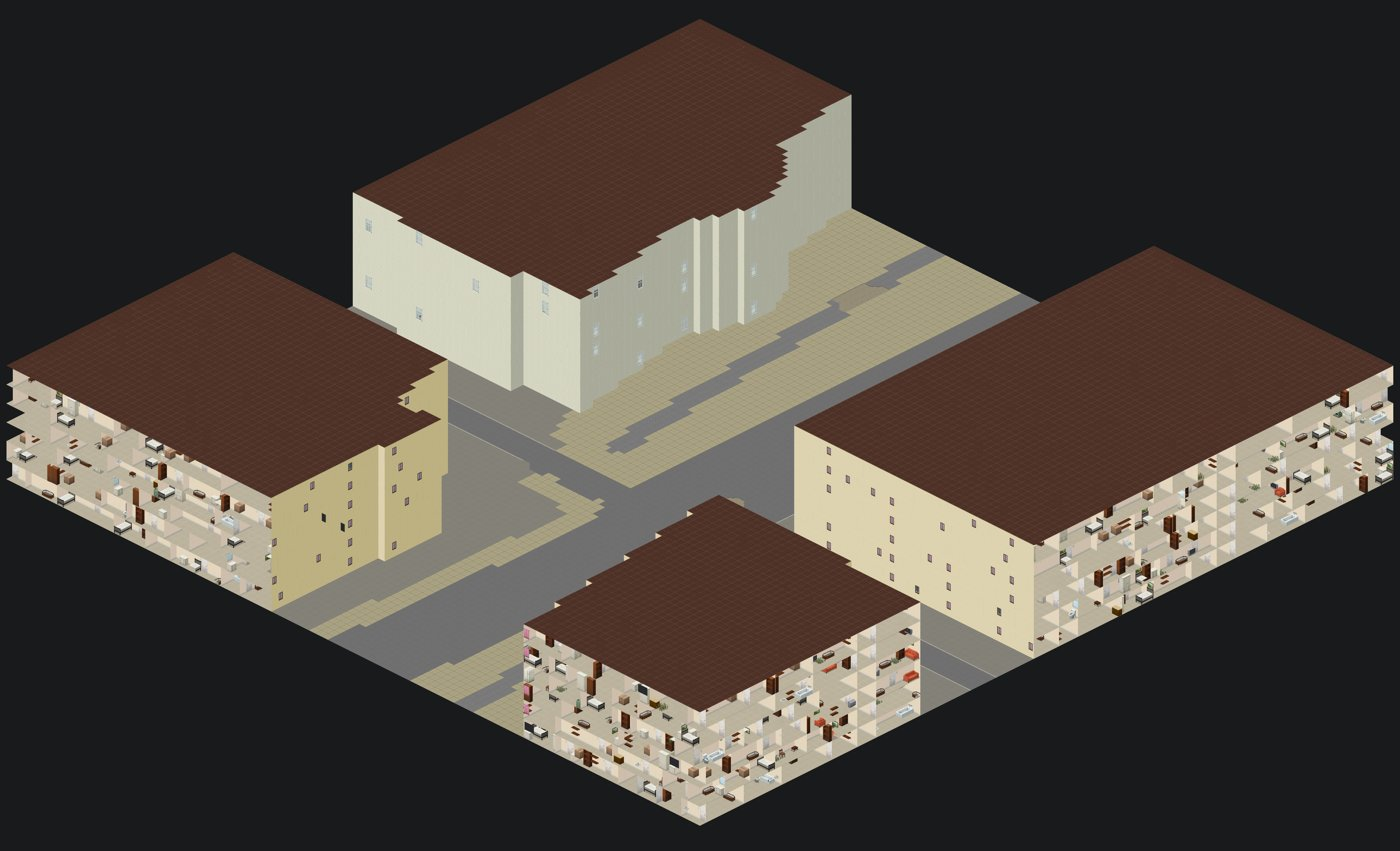
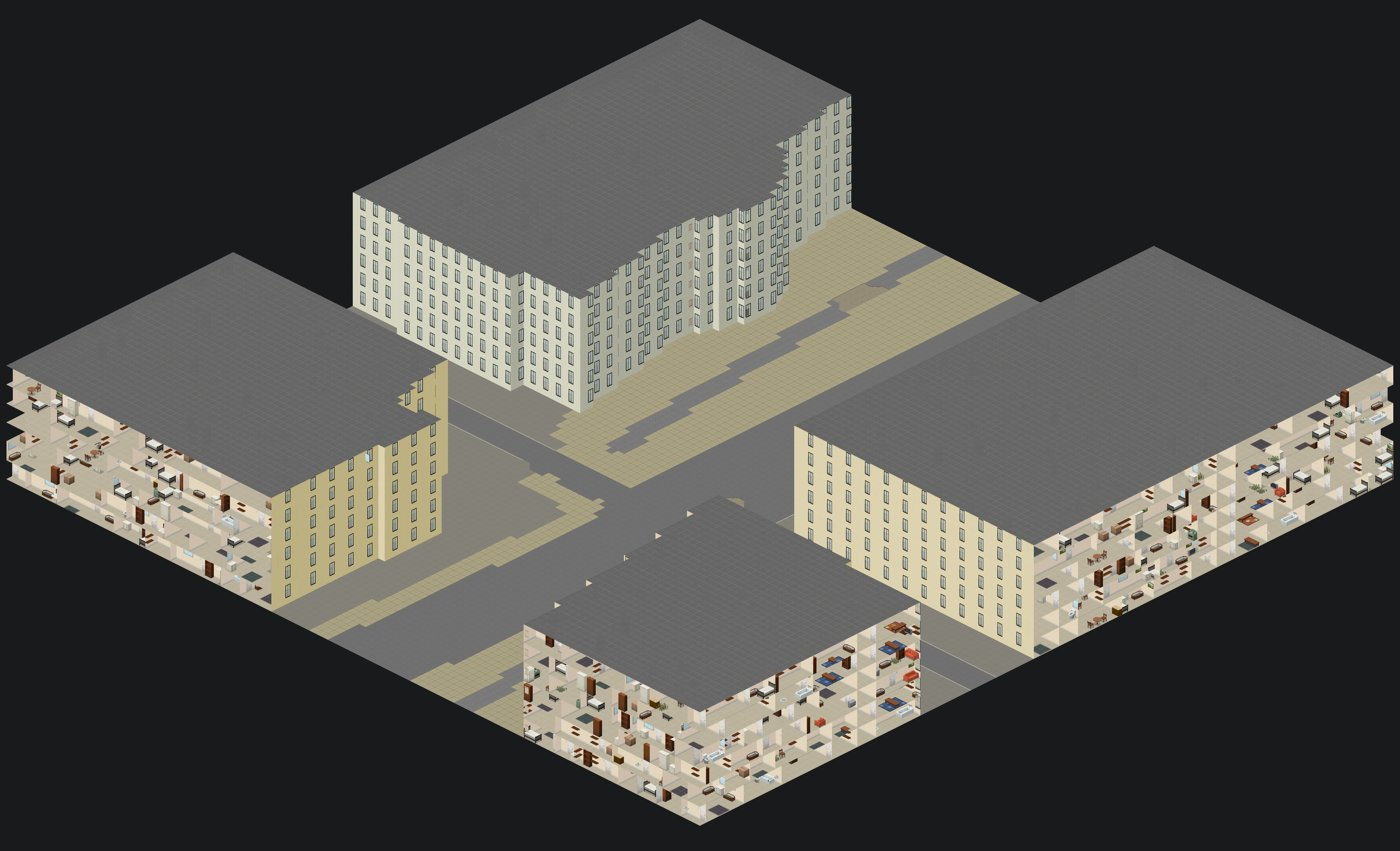
Opaque tar flat roofs; refresh in-game images
roofs_02_054 is drawn at half opacity, so every flat roof showed the rooms
under it. Use the templates' tar tile instead.

diff --git a/knoxbuild/catalog.py b/knoxbuild/catalog.py
@@ -1676,12 +1676,12 @@ SPECIAL_STYLES = {'school': {'name': 'school',
                                    None]],
             'roof': {'slopes': None,
                      'tops': {'category': 'roof_tops',
-                              'tiles': {'West1': 'roofs_02_054',
-                                        'West2': 'roofs_02_054',
-                                        'West3': 'roofs_02_054',
-                                        'North1': 'roofs_02_054',
-                                        'North2': 'roofs_02_054',
-                                        'North3': 'roofs_02_054'}},
+                              'tiles': {'West1': 'floors_exterior_street_01_016',
+                                        'West2': 'floors_exterior_street_01_016',
+                                        'West3': 'floors_exterior_street_01_016',
+                                        'North1': 'floors_exterior_street_01_016',
+                                        'North2': 'floors_exterior_street_01_016',
+                                        'North3': 'floors_exterior_street_01_016'}},
                      'peaked': False}},
  'church': {'name': 'church',
             'exterior': {'category': 'exterior_walls',
@@ -1856,12 +1856,12 @@ SPECIAL_STYLES = {'school': {'name': 'school',
                                                   'South': 'fixtures_windows_curtains_01_043'}}]],
                 'roof': {'slopes': None,
                          'tops': {'category': 'roof_tops',
-                                  'tiles': {'West1': 'roofs_02_054',
-                                            'West2': 'roofs_02_054',
-                                            'West3': 'roofs_02_054',
-                                            'North1': 'roofs_02_054',
-                                            'North2': 'roofs_02_054',
-                                            'North3': 'roofs_02_054'}},
+                                  'tiles': {'West1': 'floors_exterior_street_01_016',
+                                            'West2': 'floors_exterior_street_01_016',
+                                            'West3': 'floors_exterior_street_01_016',
+                                            'North1': 'floors_exterior_street_01_016',
+                                            'North2': 'floors_exterior_street_01_016',
+                                            'North3': 'floors_exterior_street_01_016'}},
                          'peaked': False},
                 'shop_front': [{'category': 'windows',
                                 'tiles': {'West': 'fixtures_windows_metal_008',
@@ -1902,12 +1902,12 @@ SPECIAL_STYLES = {'school': {'name': 'school',
                                             'South': 'fixtures_windows_curtains_02_003'}}]],
           'roof': {'slopes': None,
                    'tops': {'category': 'roof_tops',
-                            'tiles': {'West1': 'roofs_02_054',
-                                      'West2': 'roofs_02_054',
-                                      'West3': 'roofs_02_054',
-                                      'North1': 'roofs_02_054',
-                                      'North2': 'roofs_02_054',
-                                      'North3': 'roofs_02_054'}},
+                            'tiles': {'West1': 'floors_exterior_street_01_016',
+                                      'West2': 'floors_exterior_street_01_016',
+                                      'West3': 'floors_exterior_street_01_016',
+                                      'North1': 'floors_exterior_street_01_016',
+                                      'North2': 'floors_exterior_street_01_016',
+                                      'North3': 'floors_exterior_street_01_016'}},
                    'peaked': False},
           'shop_front': [{'category': 'windows',
                           'tiles': {'West': 'fixtures_windows_metal_014',
@@ -1976,12 +1976,12 @@ SPECIAL_STYLES = {'school': {'name': 'school',
                                        None]],
                 'roof': {'slopes': None,
                          'tops': {'category': 'roof_tops',
-                                  'tiles': {'West1': 'roofs_02_054',
-                                            'West2': 'roofs_02_054',
-                                            'West3': 'roofs_02_054',
-                                            'North1': 'roofs_02_054',
-                                            'North2': 'roofs_02_054',
-                                            'North3': 'roofs_02_054'}},
+                                  'tiles': {'West1': 'floors_exterior_street_01_016',
+                                            'West2': 'floors_exterior_street_01_016',
+                                            'West3': 'floors_exterior_street_01_016',
+                                            'North1': 'floors_exterior_street_01_016',
+                                            'North2': 'floors_exterior_street_01_016',
+                                            'North3': 'floors_exterior_street_01_016'}},
                          'peaked': False}},
  'barn': {'name': 'barn',
           'exterior': {'category': 'exterior_walls',
@@ -2155,12 +2155,12 @@ SPECIAL_STYLES = {'school': {'name': 'school',
                                                'South': 'fixtures_windows_curtains_02_003'}}]],
              'roof': {'slopes': None,
                       'tops': {'category': 'roof_tops',
-                               'tiles': {'West1': 'roofs_02_054',
-                                         'West2': 'roofs_02_054',
-                                         'West3': 'roofs_02_054',
-                                         'North1': 'roofs_02_054',
-                                         'North2': 'roofs_02_054',
-                                         'North3': 'roofs_02_054'}},
+                               'tiles': {'West1': 'floors_exterior_street_01_016',
+                                         'West2': 'floors_exterior_street_01_016',
+                                         'West3': 'floors_exterior_street_01_016',
+                                         'North1': 'floors_exterior_street_01_016',
+                                         'North2': 'floors_exterior_street_01_016',
+                                         'North3': 'floors_exterior_street_01_016'}},
                       'peaked': False}},
  'civic': {'name': 'civic',
            'exterior': {'category': 'exterior_walls',
@@ -2247,12 +2247,12 @@ SPECIAL_STYLES = {'school': {'name': 'school',
                                   None]],
            'roof': {'slopes': None,
                     'tops': {'category': 'roof_tops',
-                             'tiles': {'West1': 'roofs_02_054',
-                                       'West2': 'roofs_02_054',
-                                       'West3': 'roofs_02_054',
-                                       'North1': 'roofs_02_054',
-                                       'North2': 'roofs_02_054',
-                                       'North3': 'roofs_02_054'}},
+                             'tiles': {'West1': 'floors_exterior_street_01_016',
+                                       'West2': 'floors_exterior_street_01_016',
+                                       'West3': 'floors_exterior_street_01_016',
+                                       'North1': 'floors_exterior_street_01_016',
+                                       'North2': 'floors_exterior_street_01_016',
+                                       'North3': 'floors_exterior_street_01_016'}},
                     'peaked': False}},
  'apartment': {'name': 'apartment',
                'exterior': {'category': 'exterior_walls',
@@ -2307,10 +2307,10 @@ SPECIAL_STYLES = {'school': {'name': 'school',
                                       None]],
                'roof': {'slopes': None,
                         'tops': {'category': 'roof_tops',
-                                 'tiles': {'West1': 'roofs_02_054',
-                                           'West2': 'roofs_02_054',
-                                           'West3': 'roofs_02_054',
-                                           'North1': 'roofs_02_054',
-                                           'North2': 'roofs_02_054',
-                                           'North3': 'roofs_02_054'}},
+                                 'tiles': {'West1': 'floors_exterior_street_01_016',
+                                           'West2': 'floors_exterior_street_01_016',
+                                           'West3': 'floors_exterior_street_01_016',
+                                           'North1': 'floors_exterior_street_01_016',
+                                           'North2': 'floors_exterior_street_01_016',
+                                           'North3': 'floors_exterior_street_01_016'}},
                         'peaked': False}}}

diff --git a/tools/make_catalog.py b/tools/make_catalog.py
@@ -352,7 +352,7 @@ def main(argv: list[str]) -> int:
     }
     # Anything big is flat-roofed in grey membrane, not wooden planks; barns
     # and churches are pitched.
-    FLAT_GREY = (None, "roofs_02_054", False)
+    FLAT_GREY = (None, "floors_exterior_street_01_016", False)  # roofs_02_054 is half transparent
     SPECIAL_ROOFS = {"barn": RED, "church": SLATE}
     SHOP_FRONTS = {
         "shop": ("fixtures_windows_metal_014", None),
